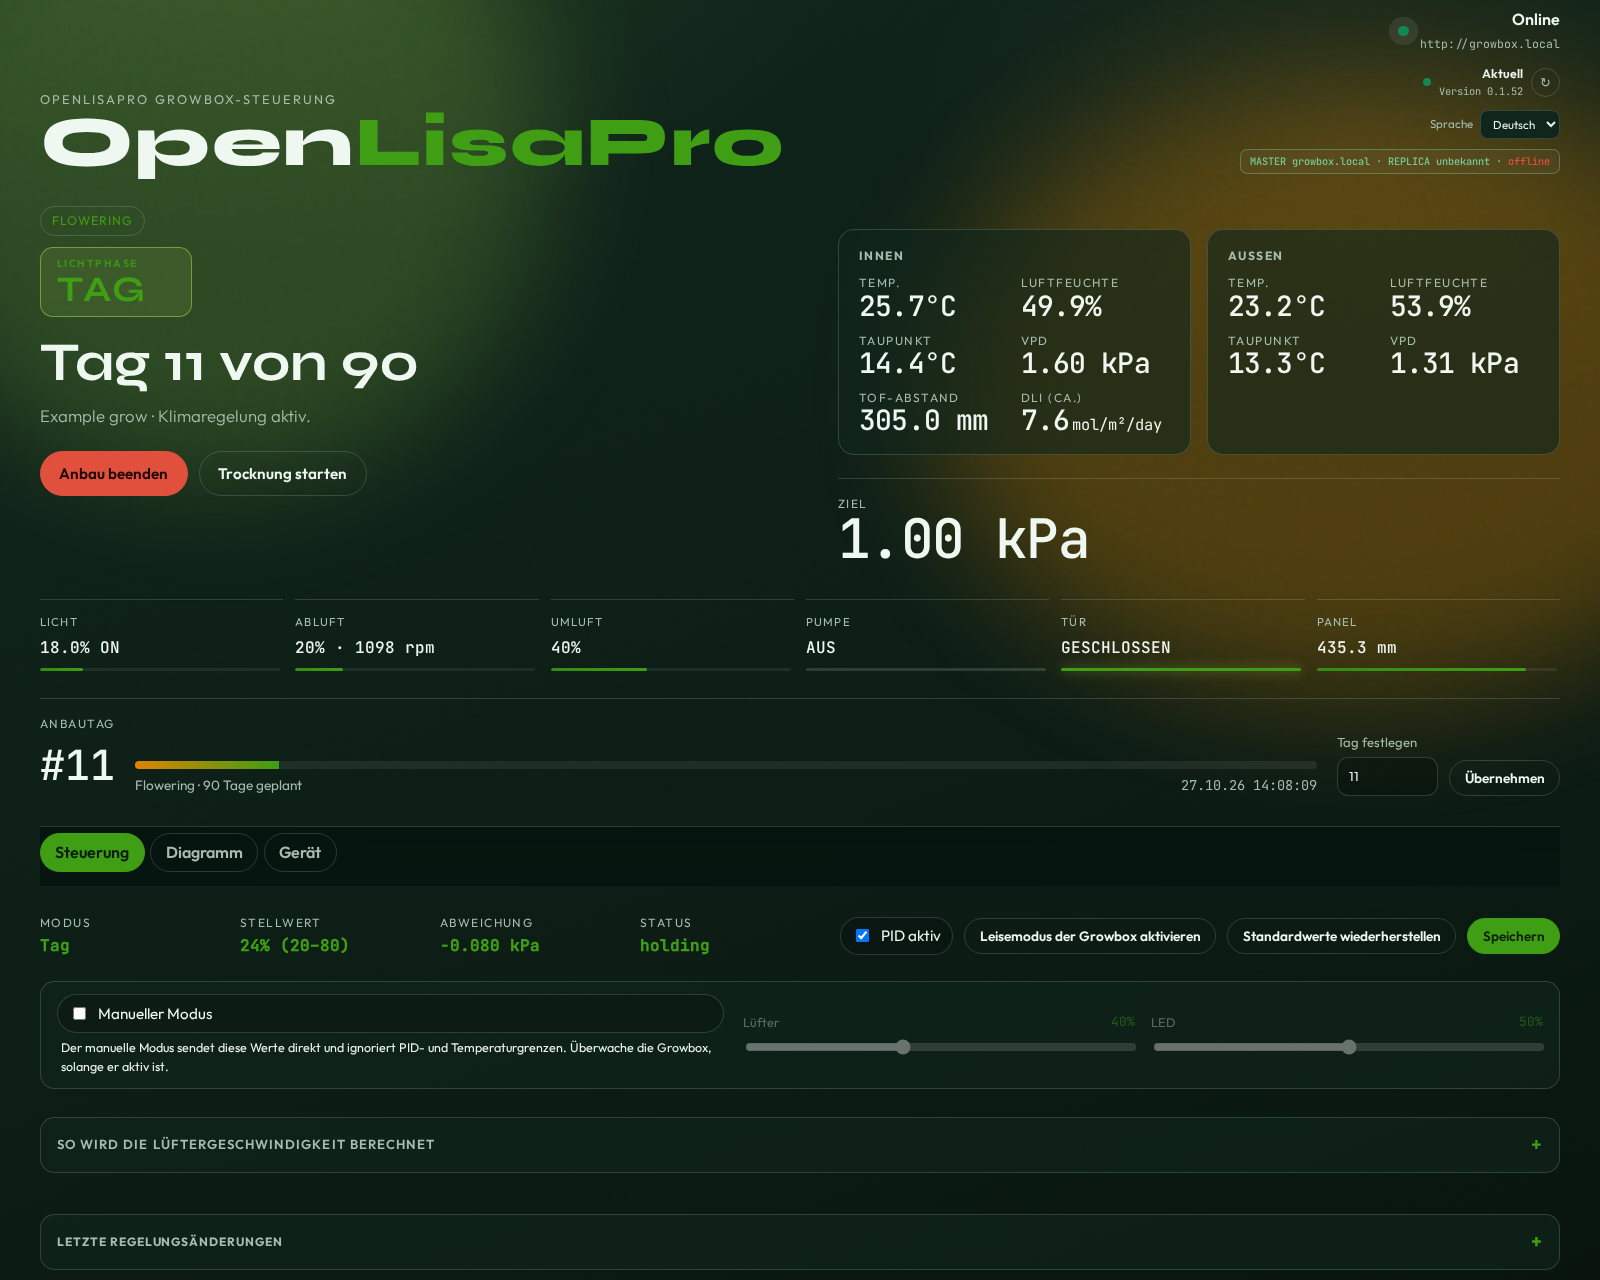
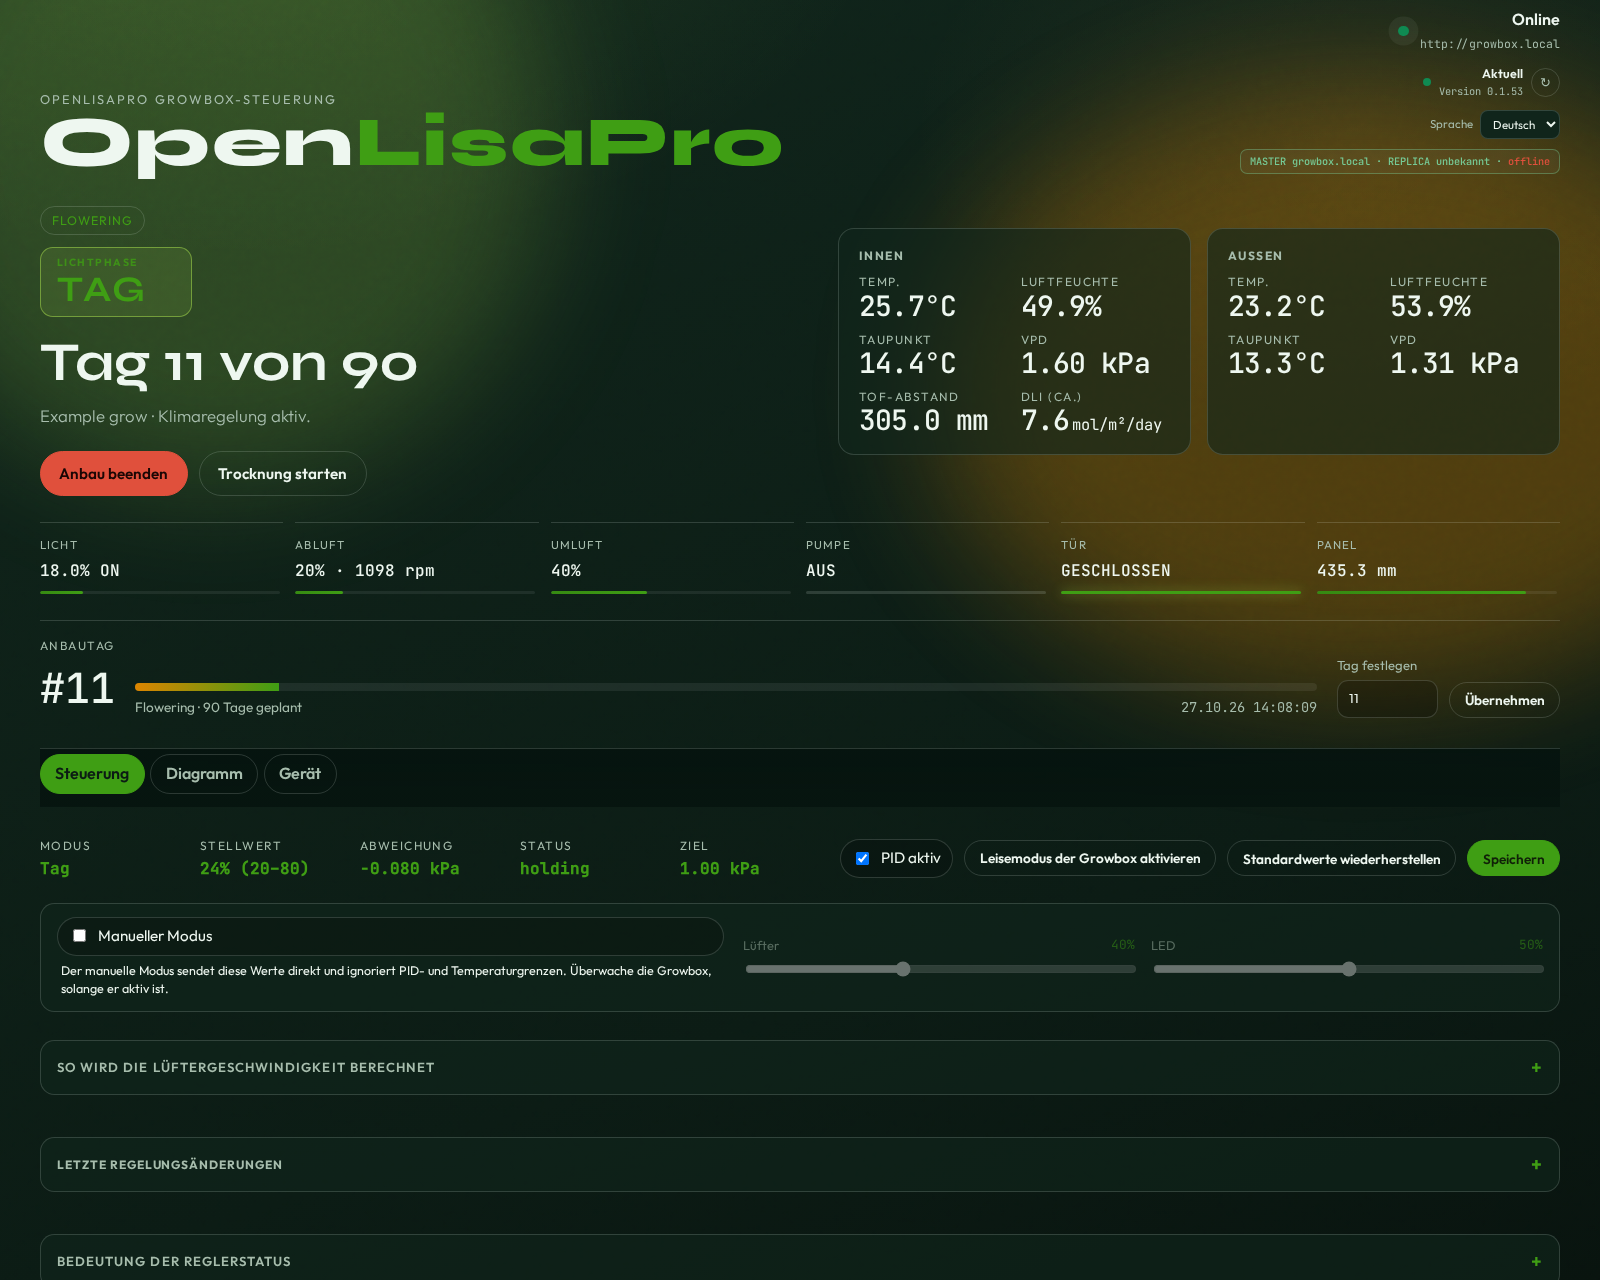
Release 0.1.53 compact VPD target display

diff --git a/src/lisa_pro_ui/templates/index.html b/src/lisa_pro_ui/templates/index.html
@@ -117,12 +117,6 @@
               </div>
             </section>
           </div>
-          <div class="climate-rail">
-            <div class="reading">
-              <span class="label">Target</span>
-              <span class="value mono" id="vpdTarget">—</span>
-            </div>
-          </div>
         </div>
       </section>
 
@@ -193,6 +187,7 @@
             <div><span class="label">Command</span><strong class="mono" id="pidCmd">—</strong></div>
             <div><span class="label" title="Positive means inside VPD is below the selected target; negative means it is above the target.">Error</span><strong class="mono" id="pidErr">—</strong></div>
             <div><span class="label">State</span><strong class="mono" id="pidReason">—</strong></div>
+            <div><span class="label">Target</span><strong class="mono" id="vpdTarget">—</strong></div>
           </div>
           <div class="cta-row control-toggles">
             <label class="check big">

diff --git a/src/lisa_pro_ui/static/css/app.css b/src/lisa_pro_ui/static/css/app.css
@@ -858,7 +858,7 @@ input:focus {
 
 .pid-status {
   display: grid;
-  grid-template-columns: repeat(4, minmax(7rem, 1fr));
+  grid-template-columns: repeat(5, minmax(6rem, 1fr));
   gap: 0.65rem 1rem;
   flex: 1;
   min-width: min(100%, 28rem);

diff --git a/CHANGELOG.md b/CHANGELOG.md
@@ -2,6 +2,12 @@
 
 Notable changes to OpenLisaPro are recorded here. Dates use the release day.
 
+## [0.1.53] - 2026-10-27
+
+### Changed
+
+- Move the VPD target into the compact controller status row.
+
 ## [0.1.52] - 2026-10-27
 
 ### Changed
